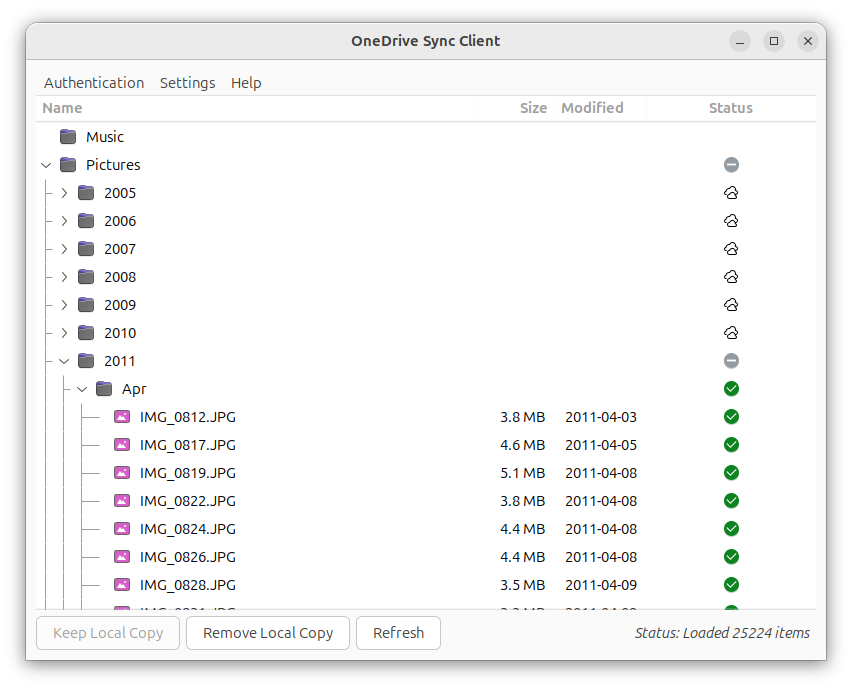
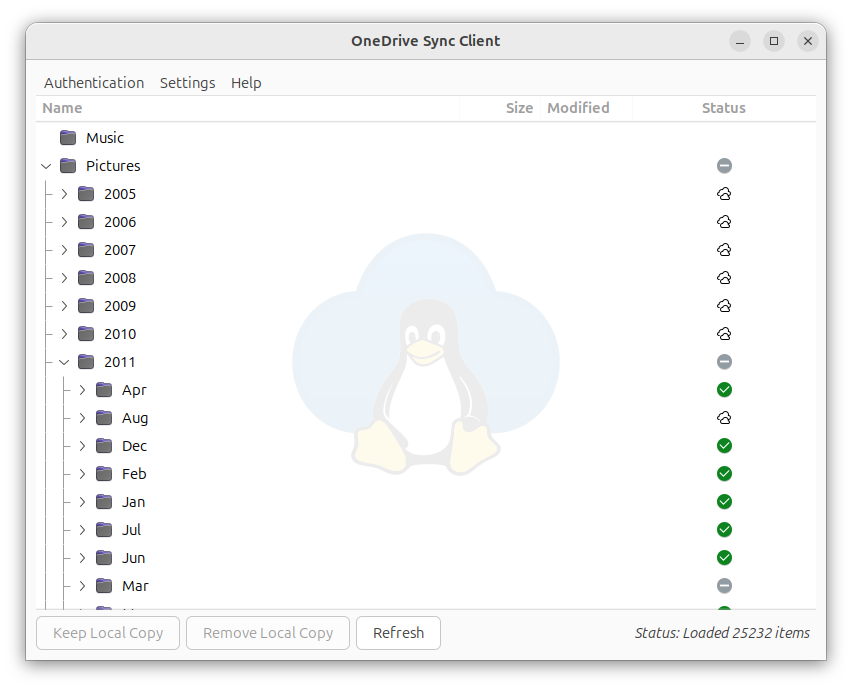
Add watermark overlay to main window file tree view
- Import GdkPixbuf for image loading
- Add _create_watermark() method to load ODSC logo from multiple paths
- Wrap ScrolledWindow in Gtk.Overlay to display 15%-opacity centered watermark
- Update screenshot to reflect new UI

diff --git a/src/odsc/gui/main_window.py b/src/odsc/gui/main_window.py
@@ -11,7 +11,7 @@ from concurrent.futures import ThreadPoolExecutor
 
 import gi
 gi.require_version('Gtk', '3.0')
-from gi.repository import Gtk, GLib
+from gi.repository import Gtk, GLib, GdkPixbuf
 
 from ..config import Config
 from ..onedrive_client import OneDriveClient
@@ -84,7 +84,41 @@ class OneDriveGUI(MenuBarMixin, FileTreeViewMixin, FileOperationsMixin, Gtk.Appl
         token_data = self.config.load_token()
         self.client = OneDriveClient(client_id, token_data)
         return True
-    
+
+    def _create_watermark(self) -> Optional[Gtk.Image]:
+        """Create a subtle centered watermark image from the ODSC logo.
+
+        Returns:
+            Gtk.Image positioned at center, or None if the logo cannot be loaded
+        """
+        possible_paths = [
+            Path(__file__).resolve().parents[3] / "desktop" / "odsc.svg",
+            Path(__file__).resolve().parents[3] / "desktop" / "odsc.png",
+            Path("/usr/share/pixmaps/odsc.svg"),
+            Path("/usr/local/share/pixmaps/odsc.svg"),
+            Path("/usr/share/pixmaps/odsc.png"),
+            Path.home() / ".local/share/pixmaps/odsc.png",
+        ]
+
+        for path in possible_paths:
+            if path.exists():
+                try:
+                    pixbuf = GdkPixbuf.Pixbuf.new_from_file_at_scale(
+                        str(path), 270, 270, True
+                    )
+                    image = Gtk.Image.new_from_pixbuf(pixbuf)
+                    image.set_halign(Gtk.Align.CENTER)
+                    image.set_valign(Gtk.Align.CENTER)
+                    image.set_opacity(0.15)
+                    image.set_sensitive(False)
+                    logger.debug(f"Loaded watermark from: {path}")
+                    return image
+                except Exception as e:
+                    logger.debug(f"Could not load watermark from {path}: {e}")
+
+        logger.debug("Could not find ODSC logo for watermark")
+        return None
+
     def _compare_tree_items(self, model, iter1, iter2, user_data):
         """Compare two tree items for case-insensitive sorting.
         
@@ -142,7 +176,14 @@ class OneDriveGUI(MenuBarMixin, FileTreeViewMixin, FileOperationsMixin, Gtk.Appl
         
         scrolled = Gtk.ScrolledWindow()
         scrolled.set_policy(Gtk.PolicyType.AUTOMATIC, Gtk.PolicyType.AUTOMATIC)
-        main_content_box.pack_start(scrolled, True, True, 0)
+
+        overlay = Gtk.Overlay()
+        overlay.add(scrolled)
+        watermark = self._create_watermark()
+        if watermark:
+            overlay.add_overlay(watermark)
+            overlay.set_overlay_pass_through(watermark, True)
+        main_content_box.pack_start(overlay, True, True, 0)
         
         self.file_store = Gtk.TreeStore(str, str, str, str, bool, str, bool, str, str)
         
